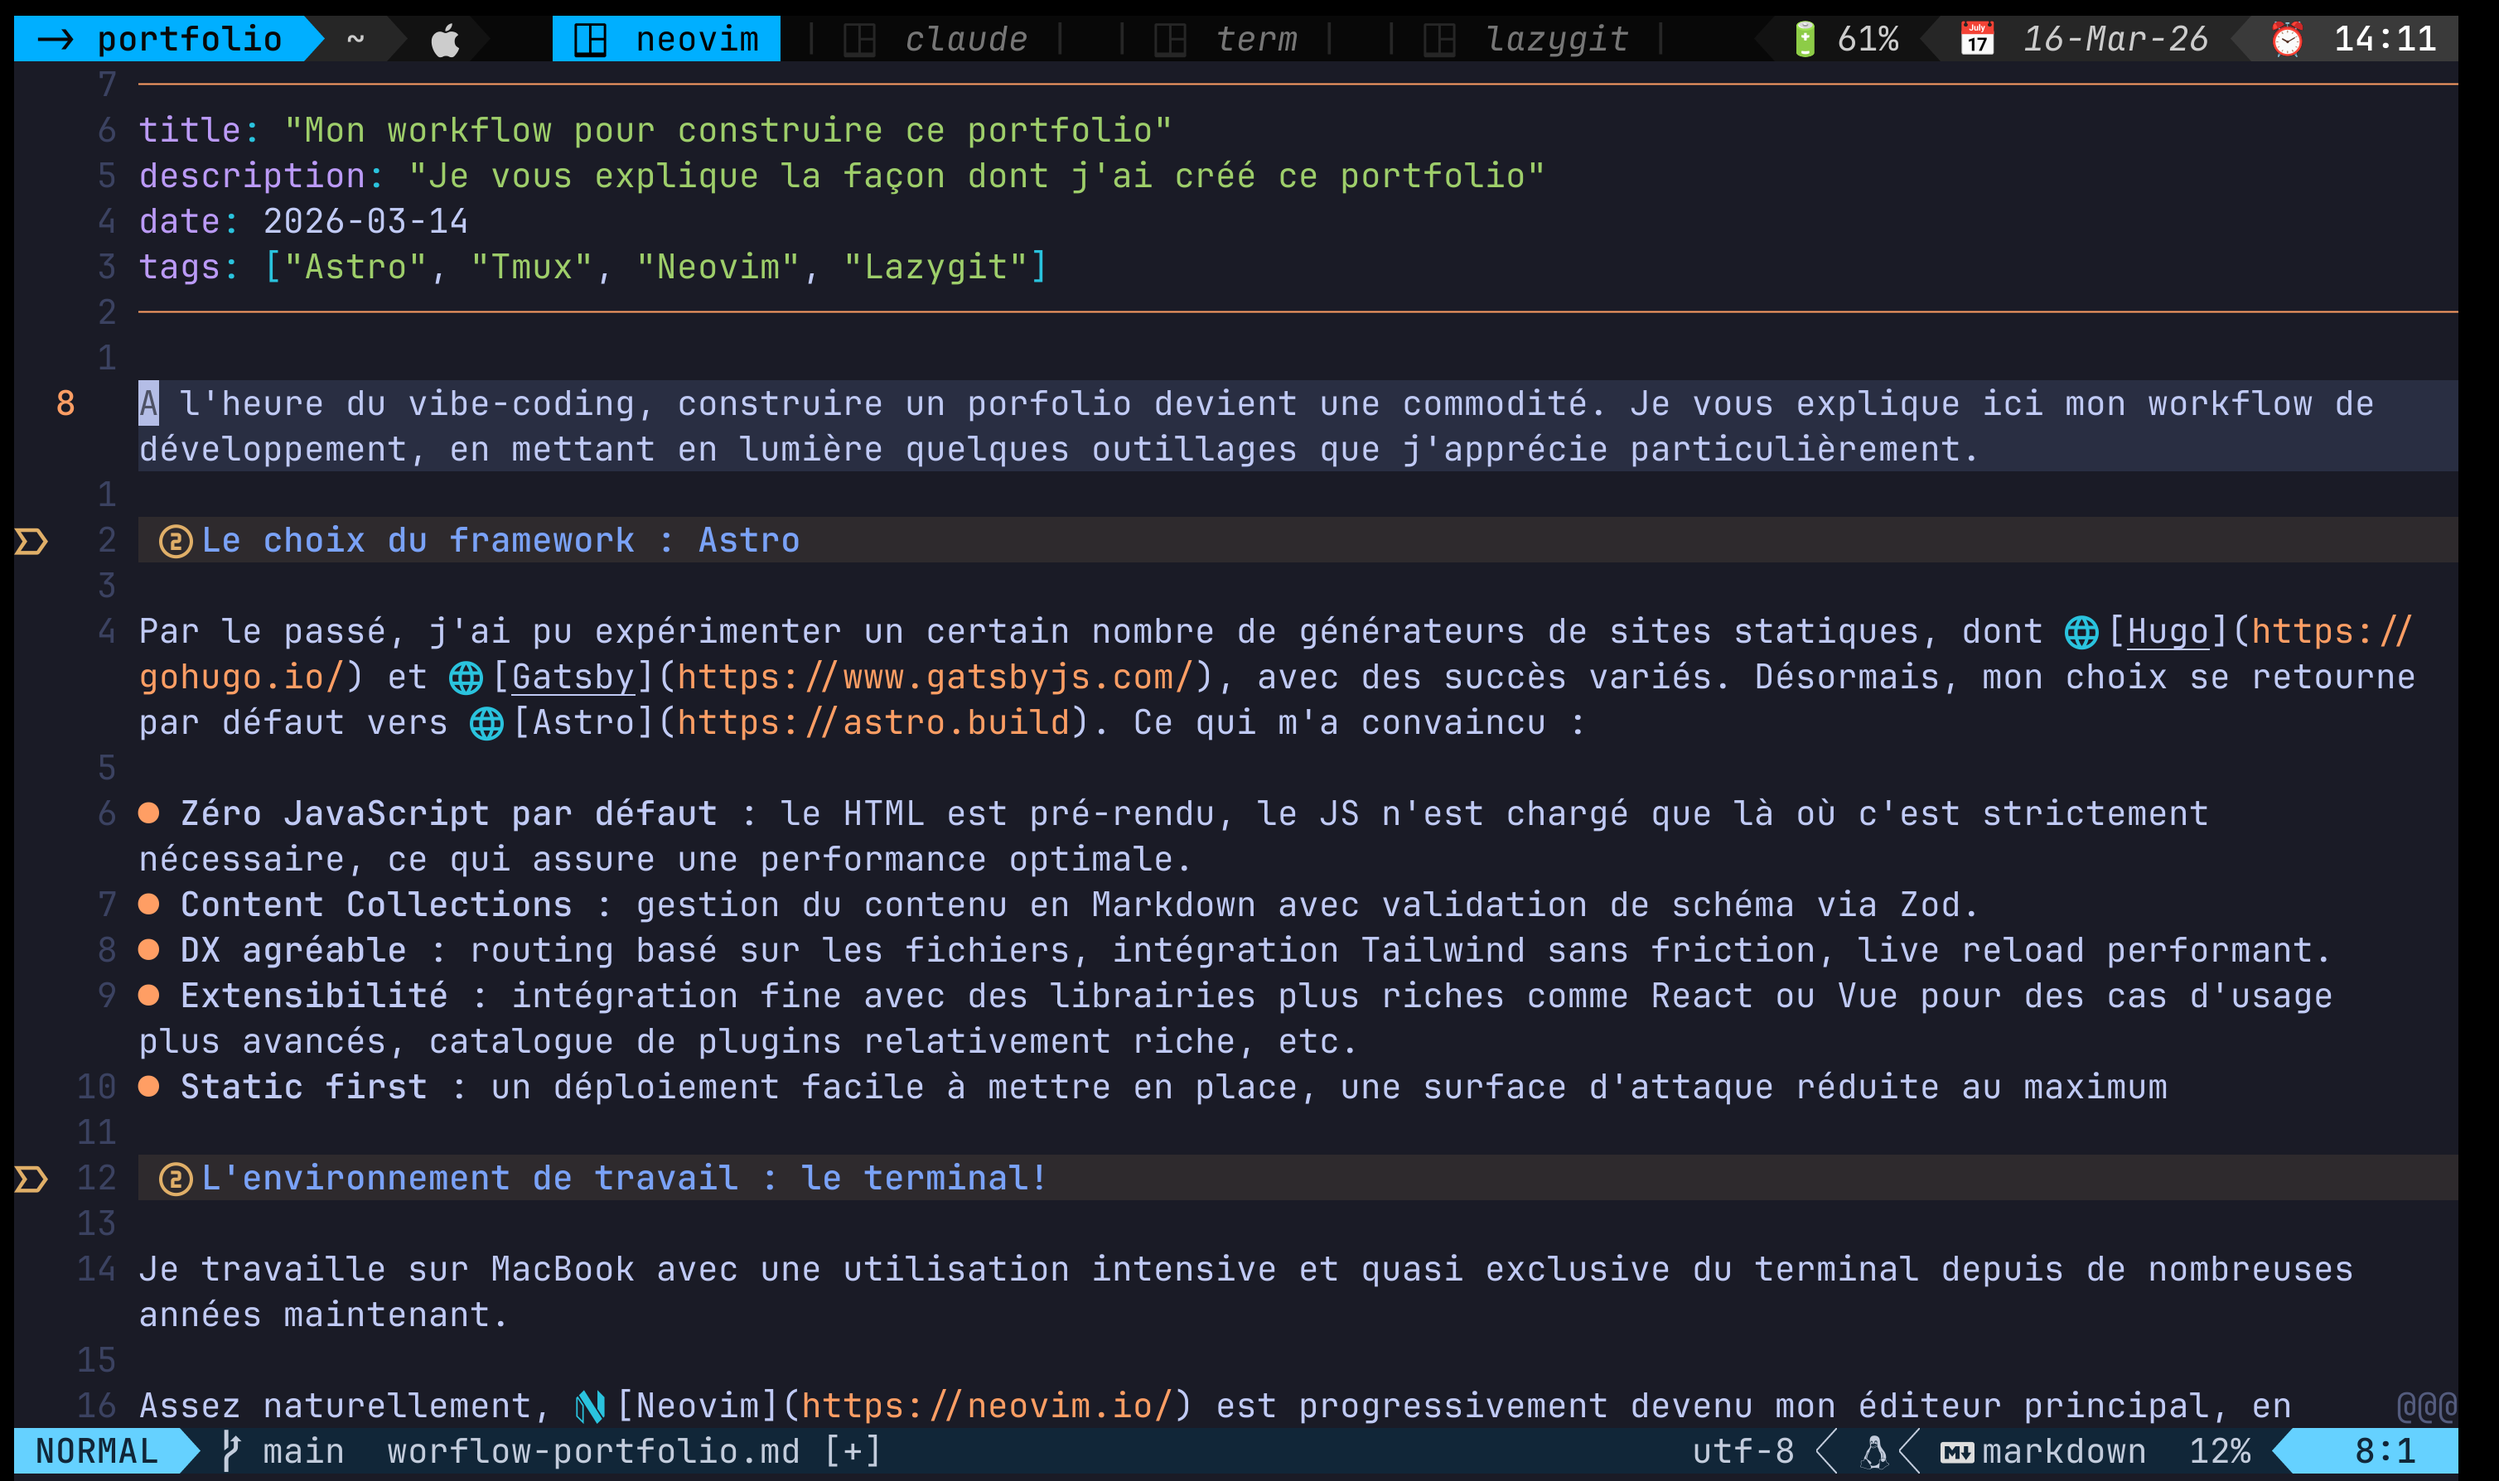
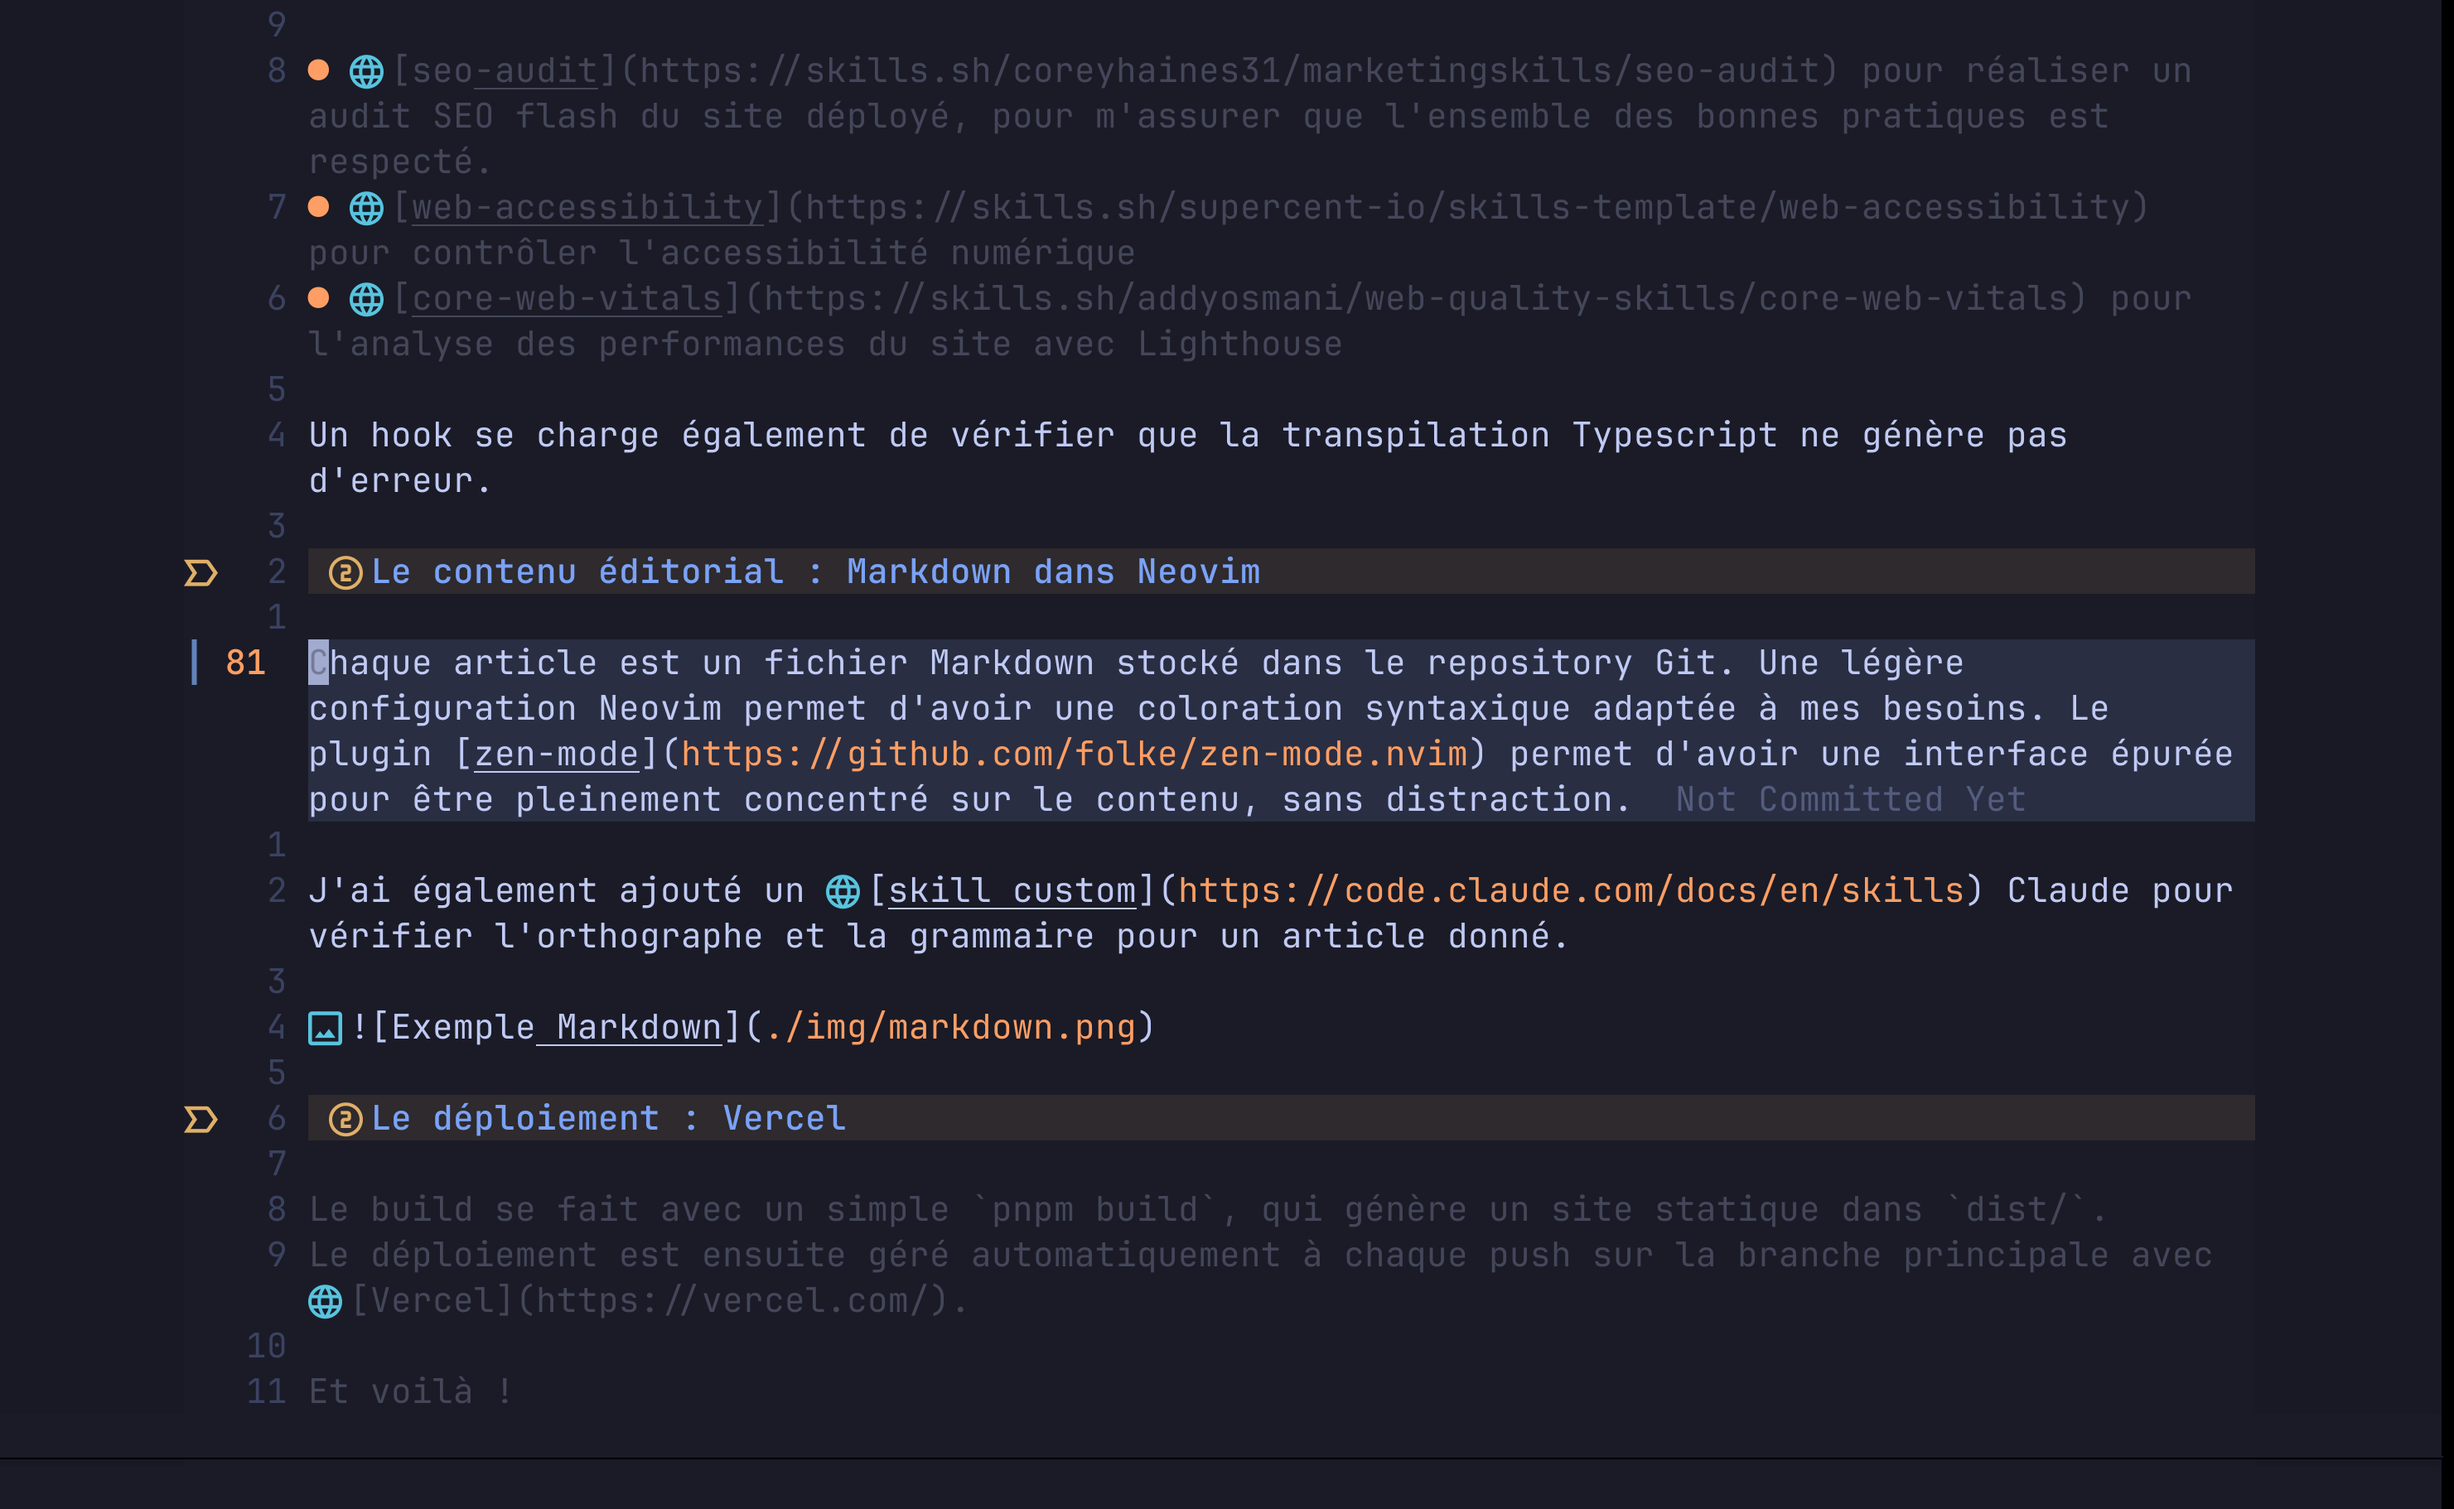
feat: up editorial content for portfolio

diff --git a/src/content/blog/workflow-portfolio.md b/src/content/blog/workflow-portfolio.md
@@ -60,7 +60,7 @@ Me sentant à l'aise dans des interfaces de type TUI, Lazygit me permet beaucoup
 
 ![Ma configuration lazygit](./img/lazygit.png)
 
-## L'interface graphique : Claude Code
+## La construction de l'interface graphique : Claude Code
 
 N'ayant que des talents limités de designer, Claude Code m'a accompagné dans la construction des différentes pages. De manière progressive, à l'aide d'une série de prompts relativement simples et de demandes de corrections ciblées, je suis parvenu à un rendu visuel qui me convenait tout à fait. Par exemple, ci-dessous, j'indique vouloir une image de mise en avant pour chacun des articles. Rien de plus simple, Claude s'en charge pour moi.
 
@@ -76,9 +76,9 @@ J'utilise aussi les skills suivants pour vérifier la qualité des développemen
 
 Un hook se charge également de vérifier que la transpilation Typescript ne génère pas d'erreur.
 
-## L'écriture du contenu : Markdown dans Neovim
+## Le contenu éditorial : Markdown dans Neovim
 
-Chaque article est un simple fichier Markdown stocké dans le repository Git. Une légère configuration Neovim permet d'avoir une coloration syntaxique adaptée à mes besoins.
+Chaque article est un fichier Markdown stocké dans le repository Git. Une légère configuration Neovim permet d'avoir une coloration syntaxique adaptée à mes besoins. En commlément, le plugin [zen-mode](https://github.com/folke/zen-mode.nvim) permet d'avoir une interface épurée pour être pleinement concentré sur le contenu, sans distraction.
 
 J'ai également ajouté un [skill custom](https://code.claude.com/docs/en/skills) Claude pour vérifier l'orthographe et la grammaire pour un article donné.
 
